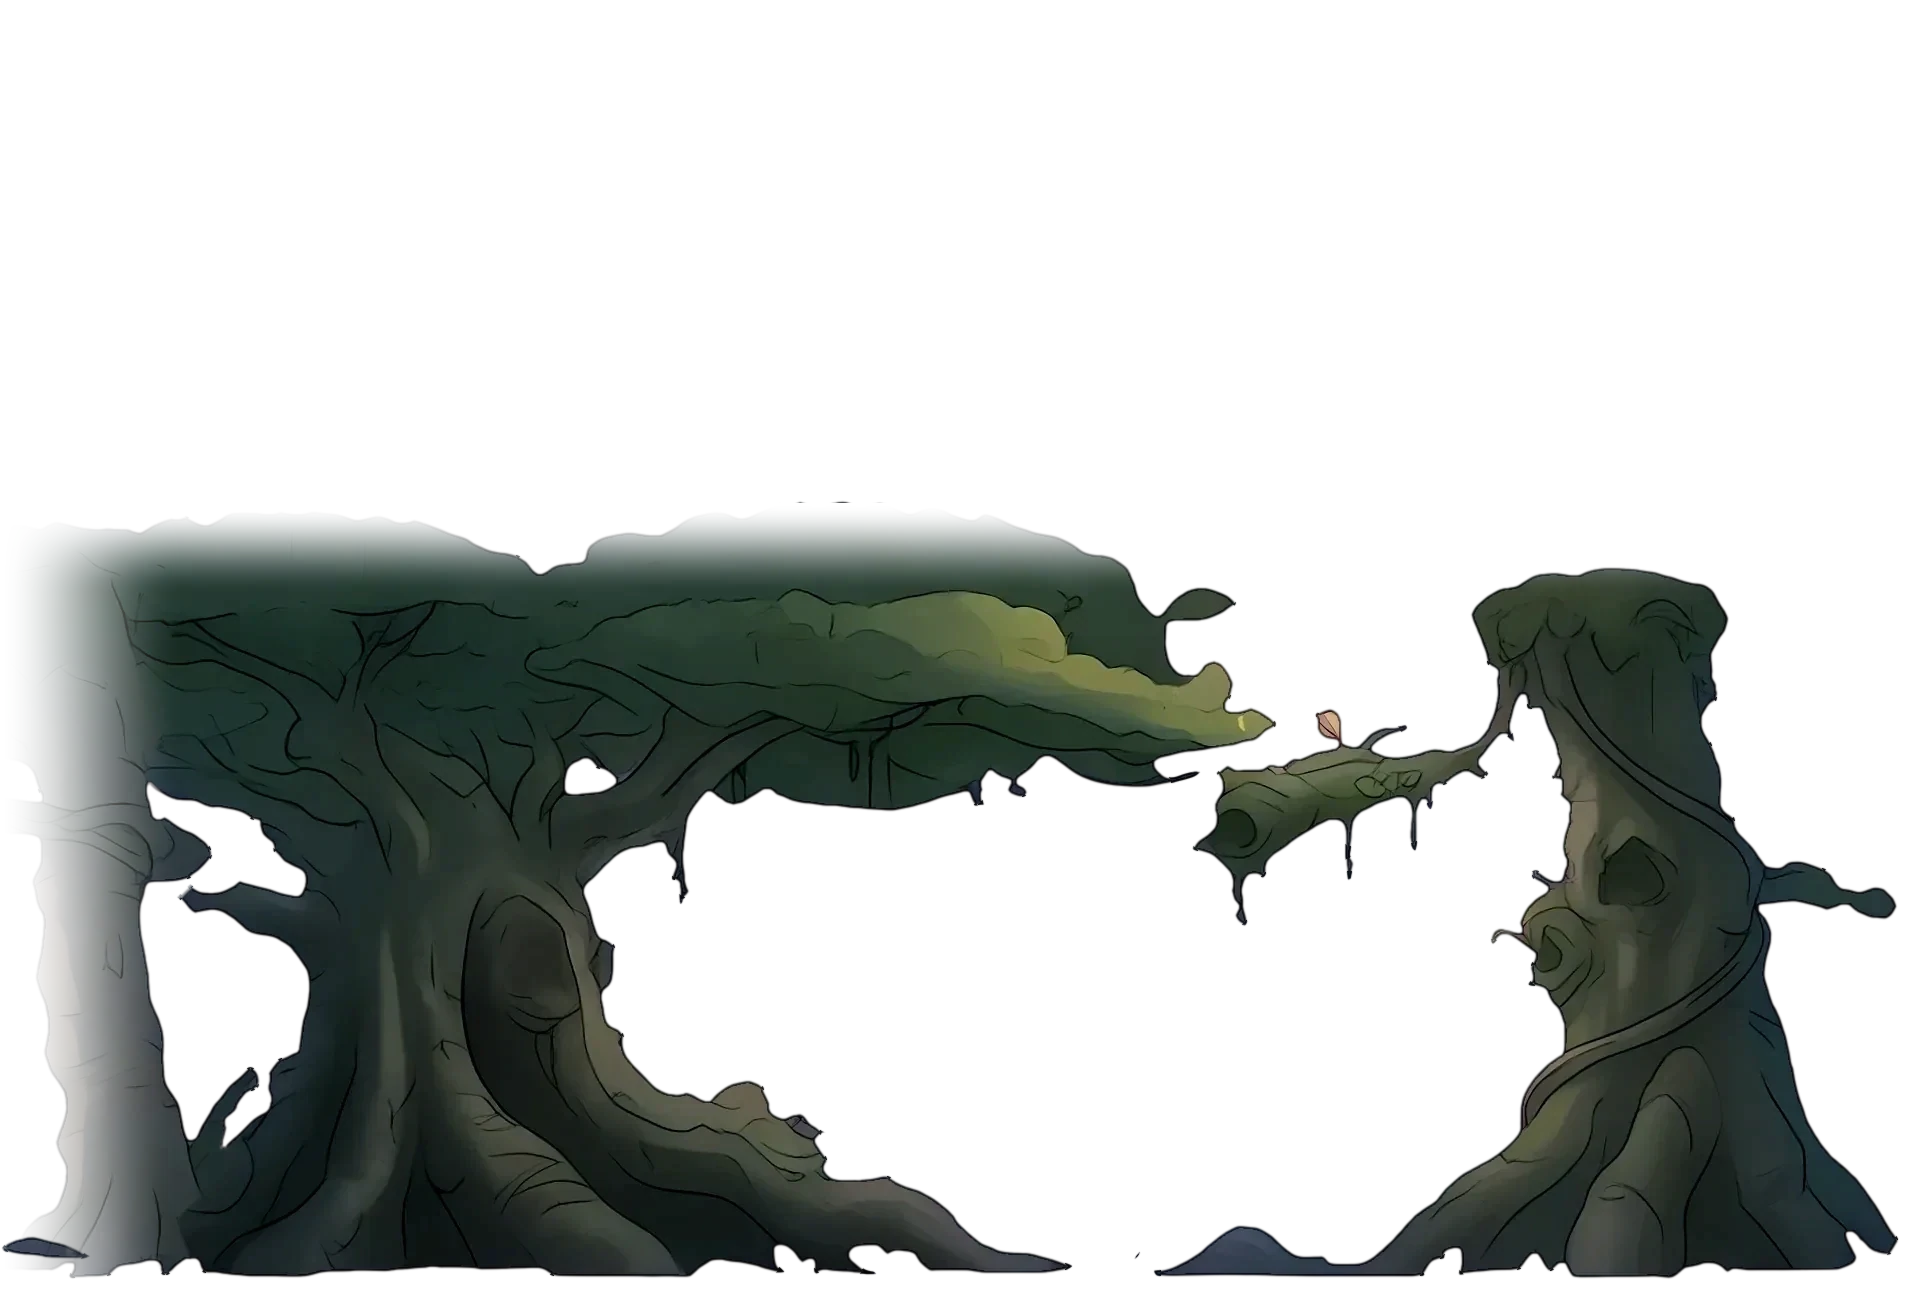
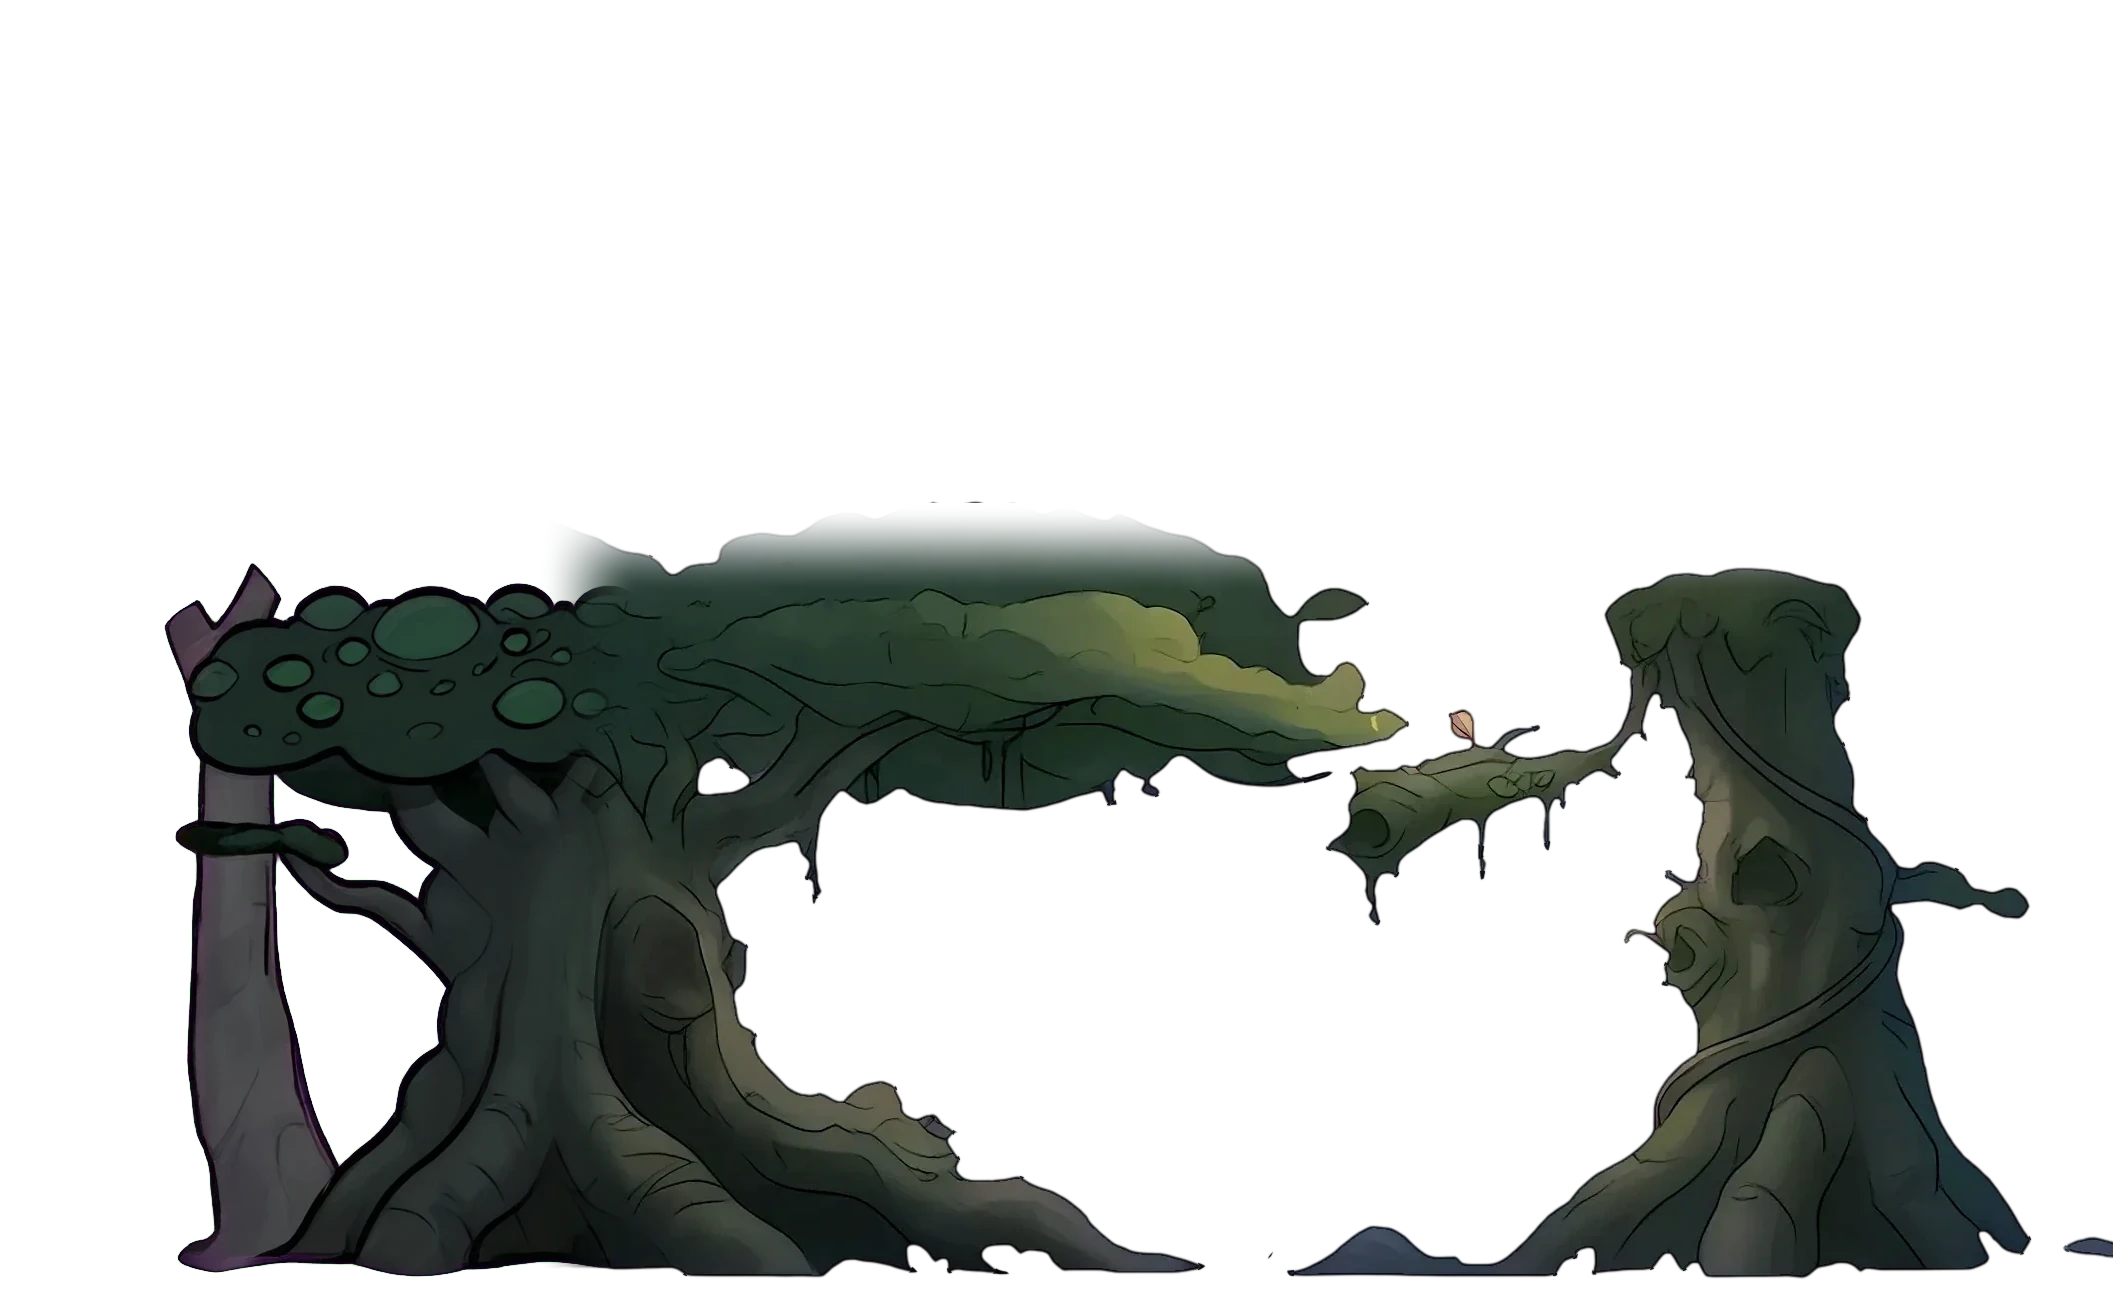
1-1 sunrise backdrop repainted (lead's option B), UNDER REVIEW: far orchids out and periodic; mid periodic with its left tree repainted
- far: rolled by half (its ends now continuous paint), orchid corners, cut branch and corner shards repainted (er-sun1 far-s82-311,
  er-sun2 farlow-s78-321), its two ends joined over 160 px
- mid: rolled so its ends fall in an empty column, its cut left tree repainted (er-sun3 midtree-s72-331). Not yet checked in game:
  its crown is drawn bolder than the big tree beside it, and a small purple fringe at the trunk's base; revert this file if rejected
- w1NewArt.ts reads the cutter's json (one source for the art-use gate); artUse.allow.json loses the 6 entries now drawn
- spend: 3 GPU jobs, about 7.5 min, about $0.35 (tools/art/strips/jobs.txt)

Claude-Session: https://claude.ai/code/session_01FhBbYMqz4cxrvhZUgieGTj

Changed region(s): [[0.0, 0.3994, 1.0, 0.9831], [0.5913, 0.9217, 0.6846, 0.9831], [0.7158, 0.9217, 0.7469, 0.9524]]

diff --git a/src/game/w1NewArt.ts b/src/game/w1NewArt.ts
@@ -13,26 +13,11 @@
  */
 import { trackAtlas } from './atlasLoader.ts';
 import type { Platform } from './types.ts';
+import FRAMES from '../assets/w1to4art/w1-new.json';
 
-/** the sheet's cells (copied from src/assets/w1to4art/w1-new.json, the cutter's own list; w1NewArt.test.ts holds them equal) */
-export const W1_NEW_FRAMES = {
-  'squirrel-sit': { x: 0, y: 0, w: 361, h: 420 },
-  'squirrel-wave': { x: 365, y: 0, w: 373, h: 420 },
-  'squirrel-haul': { x: 742, y: 0, w: 257, h: 420 },
-  'squirrel-tip': { x: 1003, y: 0, w: 388, h: 420 },
-  'squirrel-run': { x: 1395, y: 0, w: 420, h: 317 },
-  'root-gate-open': { x: 1819, y: 0, w: 177, h: 300 },
-  'root-gate-shut': { x: 0, y: 424, w: 177, h: 299 },
-  'acorn-slope': { x: 181, y: 424, w: 479, h: 279 },
-  'log-hide': { x: 664, y: 424, w: 534, h: 274 },
-  'knot-a': { x: 1202, y: 424, w: 300, h: 231 },
-  'hollowlog-moss': { x: 1506, y: 424, w: 446, h: 218 },
-  'knot-b': { x: 0, y: 727, w: 268, h: 198 },
-  'log-moss-shut': { x: 272, y: 727, w: 422, h: 196 },
-  'hollowlog-plain': { x: 698, y: 727, w: 432, h: 192 },
-  'vine-rope': { x: 1134, y: 727, w: 298, h: 88 },
-} as const;
-export type W1NewPiece = keyof typeof W1_NEW_FRAMES;
+/** the sheet's cells: the cutter's own list, read as it is (one source: the art-use gate counts its pieces there) */
+export const W1_NEW_FRAMES = FRAMES;
+export type W1NewPiece = keyof typeof FRAMES;
 const F: Record<string, { x: number; y: number; w: number; h: number }> = W1_NEW_FRAMES;
 
 /** the sheet's address (stagePreload.ts decodes it before a stage that asks for it starts) */
@@ -54,7 +39,7 @@ export function w1NewReady(): boolean {
 export const hasW1New = (n: string): n is W1NewPiece => n in F;
 
 /** how tall each kind of dressing stands (world px): a squirrel a little under Pokey's height (about 70), the gates and knots their own */
-const DRESS_H: Record<string, number> = { squirrel: 62, 'root-gate': 120, knot: 70, 'acorn-slope': 80, 'log-hide': 90, 'vine-rope': 26 };
+const DRESS_H: Record<string, number> = { squirrel: 62, 'root-gate': 120, knot: 70, 'acorn-slope': 80, 'log-hide': 90 };
 const dressH = (n: string) => DRESS_H[Object.keys(DRESS_H).find((k) => n.startsWith(k)) ?? ''] ?? 70;
 /** the share of each picture's height under its feet that is transparent margin (measured from the sheet's alpha: the squirrels' feet
  *  are 9 px over the cell's bottom of 420) */

diff --git a/tools/art/strips/sunrise_fix.py b/tools/art/strips/sunrise_fix.py
@@ -248,6 +248,18 @@ def farjoin(out, band=160, y0=774):
     out = Path(out)
     f = np.asarray(Image.open(out / 'w1sunrise-far.webp').convert('RGB'), np.float32)
     H, W = f.shape[:2]
+    # (the original branch's tip at the right end's bottom: its brown goes to the canopy's teal, softened, or the mirror puts a brown
+    # peak at the seam)
+    for xs in (slice(W - 260, W), slice(0, 260)):
+        tip = f[1100:, xs].copy()
+        # (the branch: browner or mauver than the teal canopy round it: red at or over green)
+        brown = (tip[..., 0] >= tip[..., 1] - 2)
+        if not brown.any():
+            continue
+        tip[brown] = (30, 56, 52)
+        sm = np.asarray(Image.fromarray(np.clip(tip, 0, 255).astype(np.uint8)).filter(ImageFilter.GaussianBlur(6)), np.float32)
+        near = np.asarray(Image.fromarray((brown * 255).astype(np.uint8)).filter(ImageFilter.MaxFilter(9)).filter(ImageFilter.GaussianBlur(4)), np.float32)[..., None] / 255
+        f[1100:, xs] = near * sm + (1 - near) * f[1100:, xs]
     t = (np.arange(band, dtype=np.float32) + 0.5) / band
     t = t * t * (3 - 2 * t)
     rows = np.clip((np.arange(H, dtype=np.float32) - y0) / 60, 0, 1)[:, None]
